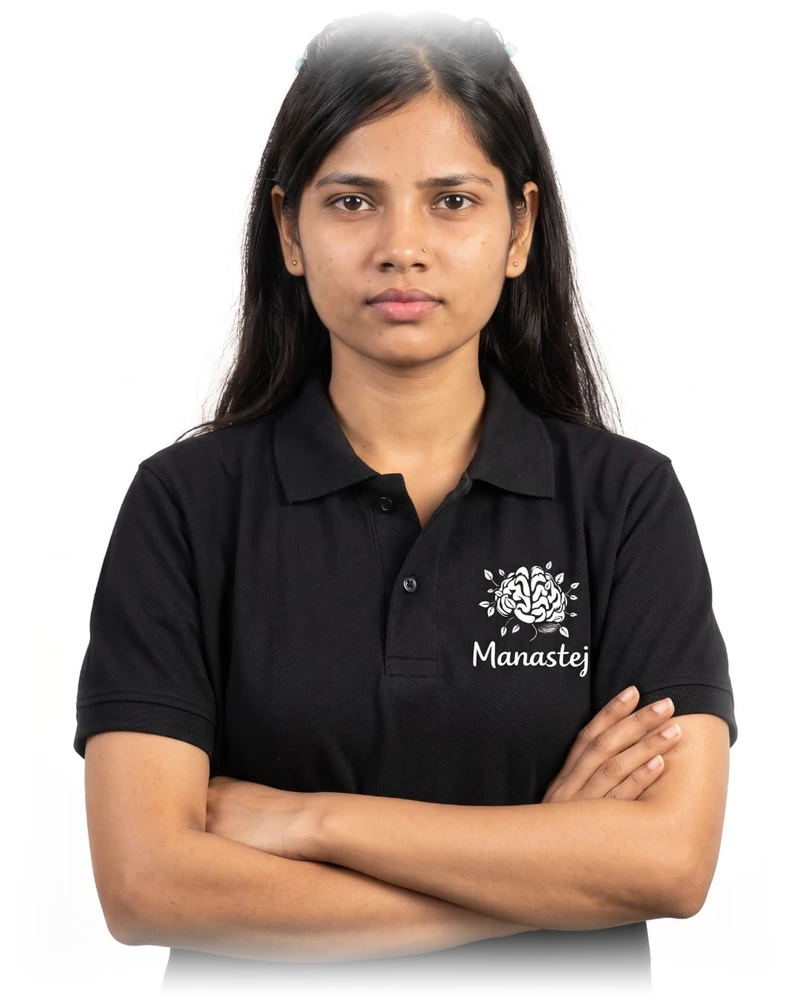
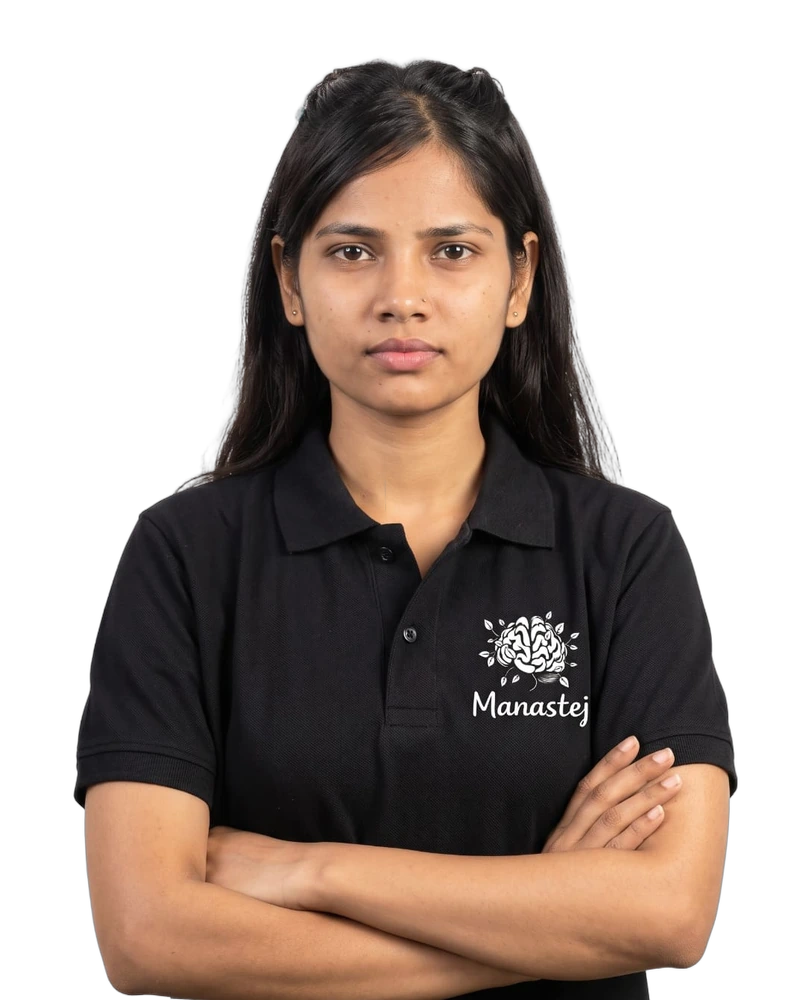
Cut out team photo backgrounds
Remove studio white from all portraits so figures sit directly on
the deep green section with transparent edges.

diff --git a/src/components/sections/Team.tsx b/src/components/sections/Team.tsx
@@ -23,7 +23,7 @@ export default function Team() {
                 data-rise
                 className={`grid items-center gap-8 md:grid-cols-2 md:gap-14 ${flip ? "md:[&>*:first-child]:order-2" : ""}`}
               >
-                {/* 4/5 matches photo — keeps equal soft alpha on all sides (no crop) */}
+                {/* Cutout portraits — transparent bg sits directly on deep green */}
                 <div className="relative aspect-[4/5] w-full max-w-md justify-self-center md:max-w-none md:justify-self-stretch">
                   <Image
                     src={m.photo}
